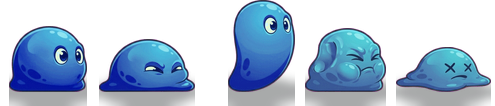
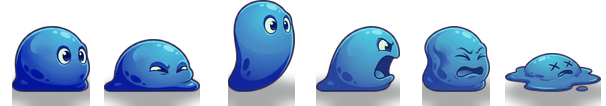
Quadro de ataque em todos os monstros e animação em quadros dos efeitos
Claude-Session: https://claude.ai/code/session_01Pzwr3AcNttGrgNkJhUhbb6

diff --git a/tests/logic.test.ts b/tests/logic.test.ts
@@ -43,7 +43,7 @@ describe('arte', () => {
       expect(slots(c.texture), c.texture).toEqual(['idle', 'walk_a', 'walk_mid', 'walk_b', 'attack', 'hurt', 'death', 'victory']);
     }
     for (const e of Object.values(ENEMIES)) {
-      const want = e.id === 'demon' ? ['idle', 'walk_a', 'walk_b', 'windup', 'attack', 'hurt', 'death'] : ['walk_a', 'walk_mid', 'walk_b', 'hurt', 'death'];
+      const want = e.id === 'demon' ? ['idle', 'walk_a', 'walk_b', 'windup', 'attack', 'hurt', 'death'] : ['walk_a', 'walk_mid', 'walk_b', 'attack', 'hurt', 'death'];
       expect(slots(e.texture), e.texture).toEqual(want);
     }
   });

diff --git a/scripts/process-art.py b/scripts/process-art.py
@@ -268,8 +268,10 @@ def strip(frames, a, res, n_ref):
     """Tira de quadros do mesmo tamanho, na mesma escala, alinhados pelos pés (ou pelo centro, se voa).
     A escala vem da altura mediana dos `n_ref` primeiros quadros (os de movimento)."""
     # escala única: mantém a diferença de tamanho entre poses (achatar, esticar, cair)
-    heights = sorted(f.height for f in frames[:n_ref])
-    k = a['h'] * res / heights[len(heights) // 2]
+    # escala pela altura (ou pela largura, nos efeitos deitados como a onda)
+    dim = 'h' if 'h' in a else 'w'
+    sizes = sorted((f.height if dim == 'h' else f.width) for f in frames[:n_ref])
+    k = a[dim] * res / sizes[len(sizes) // 2]
     frames = [premul_resize(f, (max(1, round(f.width * k)), max(1, round(f.height * k)))) for f in frames]
     fly = not a.get('shadow') and not a.get('ground')
     # bípedes: alinhados pela cabeça e tronco (os pés abrem e fecham na corrida e o corpo pularia
